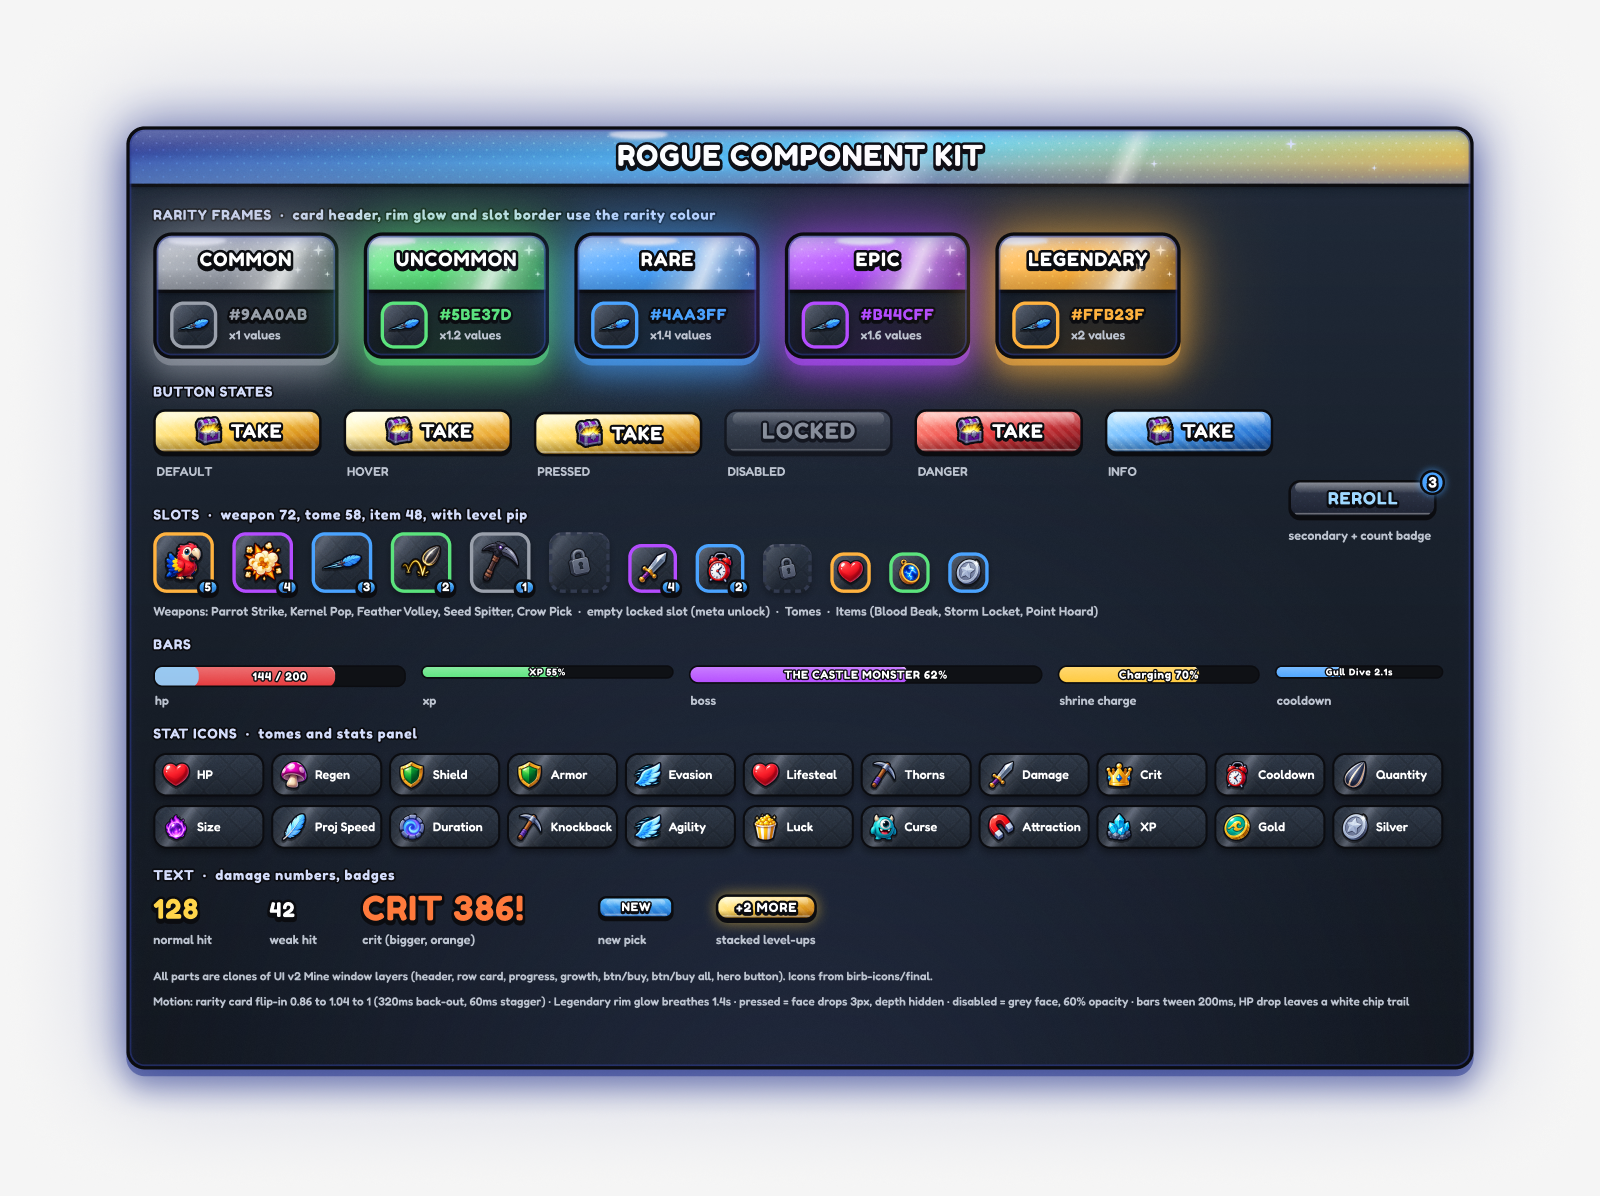
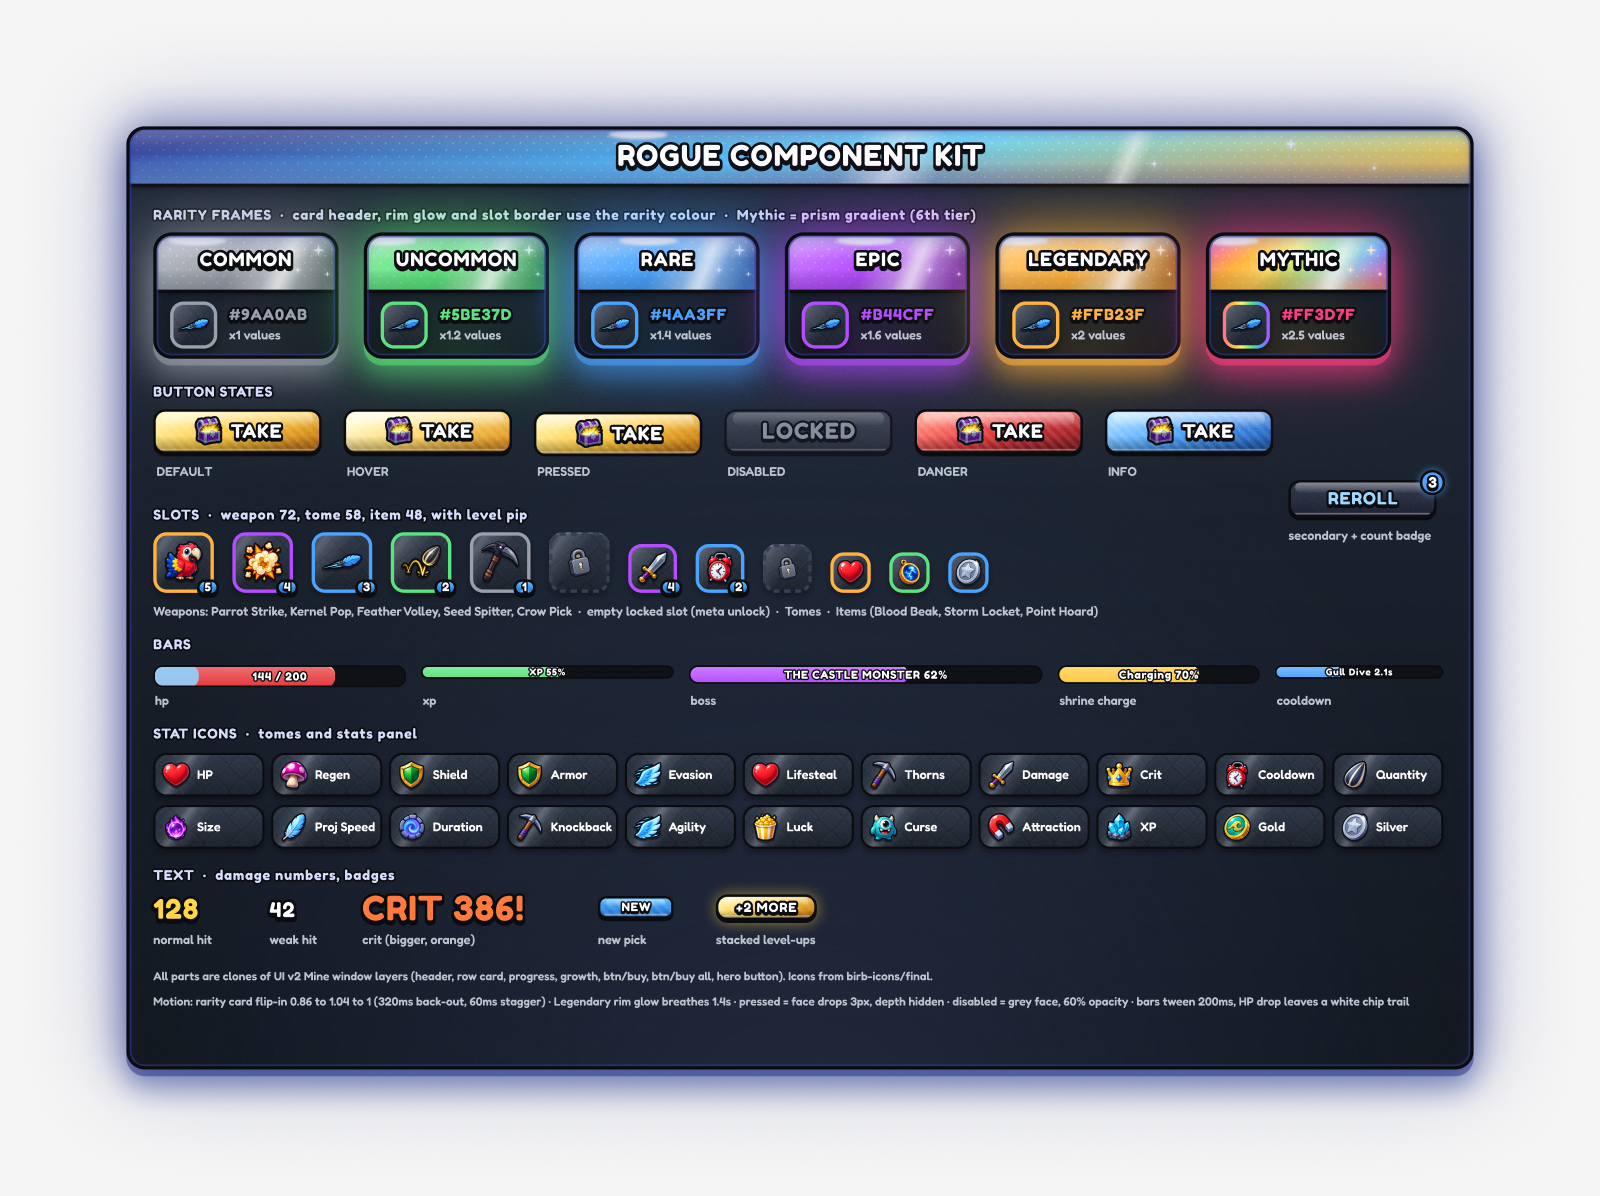
Rarity reveal ladder (Common to Mythic) with AI VFX flipbooks, Mythic tier, keyhole light
Claude-Session: https://claude.ai/code/session_01Bcipvs8GEV4zrXkynrNaGf

Changed region(s): [[0.7188, 0.1547, 0.9062, 0.3403], [0.4688, 0.1547, 0.625, 0.1856]]

diff --git a/birb-icons/vfx_alpha.py b/birb-icons/vfx_alpha.py
@@ -1,0 +1,23 @@
+"""Turn an AI VFX flipbook on black into a Roblox-ready sheet: brightness becomes alpha, colour is un-premultiplied,
+so the glow composites over any background without additive blending (Roblox GUI has none).
+Run: python3 birb-icons/vfx_alpha.py <sheet.png> <out.png> [cols rows frame_list out_prefix]"""
+import sys
+import numpy as np
+from PIL import Image
+
+def to_alpha(img):
+    a = np.asarray(img.convert('RGB')).astype(np.float32) / 255
+    al = a.max(2)
+    al = np.clip((al - 0.04) / 0.96, 0, 1)            # crush the near-black noise floor
+    rgb = np.where(al[..., None] > 0, a / np.maximum(a.max(2, keepdims=True), 1e-4), 0)
+    rgb = np.clip(rgb, 0, 1)
+    return Image.fromarray(np.dstack([rgb, al]).__mul__(255).astype(np.uint8), 'RGBA')
+
+if __name__ == '__main__':
+    src, out = sys.argv[1], sys.argv[2]
+    im = to_alpha(Image.open(src)); im.save(out)
+    if len(sys.argv) > 3:
+        cols, rows = int(sys.argv[3]), int(sys.argv[4]); frames = [int(f) for f in sys.argv[5].split(',')]; pre = sys.argv[6]
+        cw, ch = im.width // cols, im.height // rows
+        for f in frames:
+            i = f - 1; im.crop(((i % cols) * cw, (i // cols) * ch, (i % cols + 1) * cw, (i // cols + 1) * ch)).save(f'{pre}_f{f:02d}.png')

diff --git a/HANDOUT.md b/HANDOUT.md
@@ -305,3 +305,9 @@ Source clones on the same page (`src/*`, y = -3000) can be deleted once the fram
 - **Hierarchy rule:** one gold primary button per screen. Reroll, Banish, Skip, Settings, Give Up, Menu, Meta Shop and HUD Pause are dark secondary plates with text only, and counts sit in coloured badges (blue reroll, red banish, grey skip, gold "affordable"). Icons appear only where they mean something. RUN AGAIN is primary on the end screen.
 - Level-up has vector rays (crisp stars instead of the scaled texture), type labels (WEAPON / TOME · ALL WEAPONS) and a global-effect line on tome cards. HUD: the boss title is the headline, the HP bar is clear of the heart, and the crit no longer overlaps the boss bar.
 - Scale and balance plan: `ROGUE_SCALE.md`.
+
+### v4: rarity reveal VFX and Mythic (2026-10-14)
+- **Rarity Reveal Ladder** board `448:7` (Rogue UI page, y=4700): six tiers, four storyboard beats each, built from real card clones, AI flipbook frames and vector effects. The rule: each tier keeps the lower tiers' effects and adds ONE layer. Common flips → Uncommon rim flash → Rare tease, glint and ring → Epic ZAP bolt → Legendary crack, burst and pixel dissolve → Mythic void, vortex, pixel assembly, double shockwave, RGB split and a server banner. Durations 0.35 / 0.5 / 0.7 / 1.1 / 1.6 / 2.4 s. Rules for safe flashes, audio, skipping and the Roblox build are on the board.
+- **Mythic tier:** colour `#FF3D7F` plus a prism gradient (header, chip, slot stroke), values ×2.5. Added to the kit (`450:7`). Proposed drop weights: 55 / 25 / 12 / 5.5 / 2 / 0.5 (Luck pushes them up).
+- **VFX flipbooks (Figma AI, gpt-image):** `design/rogue-ui/vfx/sheet_*.png` (raw, on black) and `*_alpha.png` (Roblox-ready: `birb-icons/vfx_alpha.py` turns brightness into alpha and un-premultiplies, because Roblox GUI has no additive blend). 4×4 frames at 256px each: play with ImageRectOffset at 24fps. Mythic frames 6–8 overflow their cells slightly; re-generate with more padding before shipping.
+- **Keyhole:** the lock PNG really is transparent; it read black because of the dark plate behind it. Every lock now has warm "keyhole light" behind it (`fx/keyhole light`), which pulses when the unlock is affordable.
